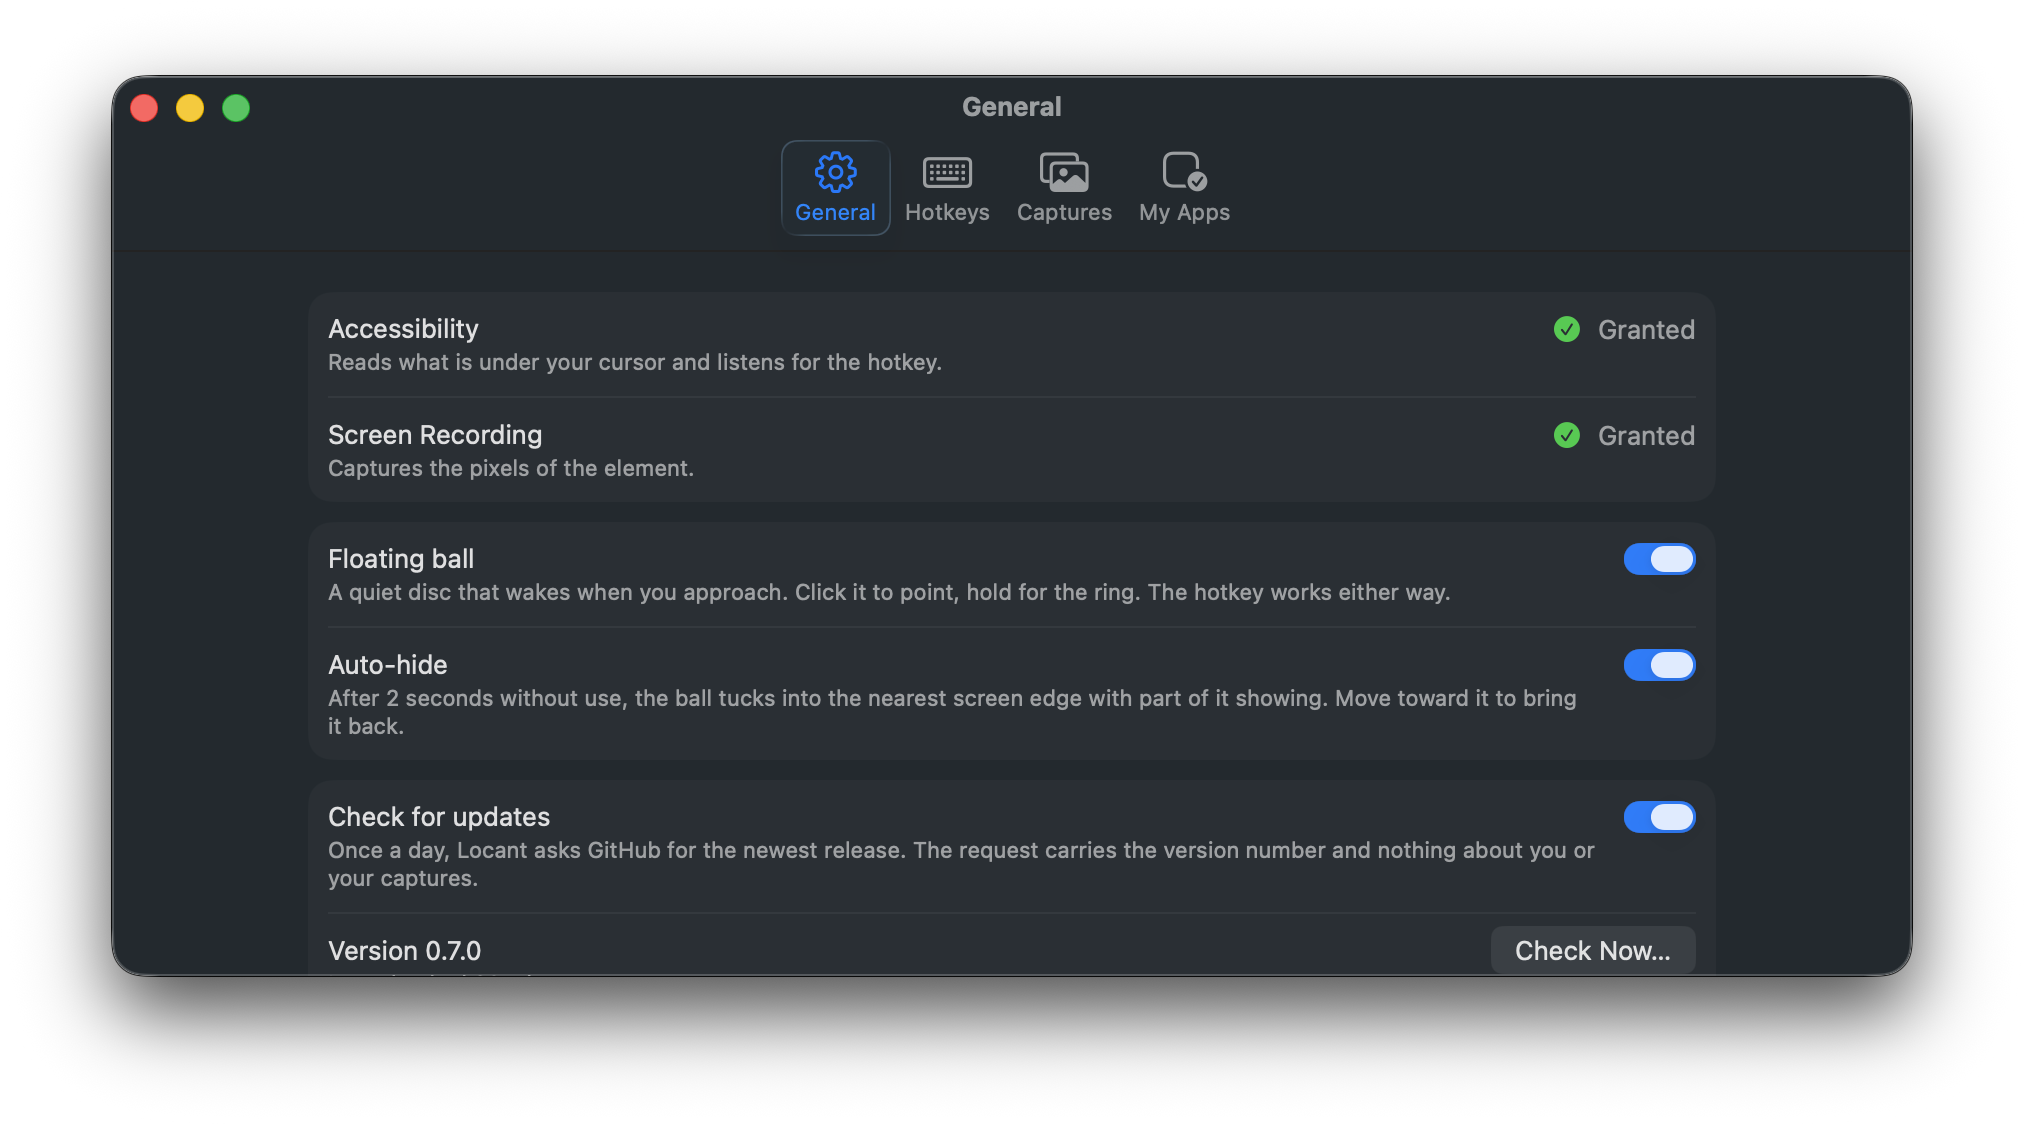
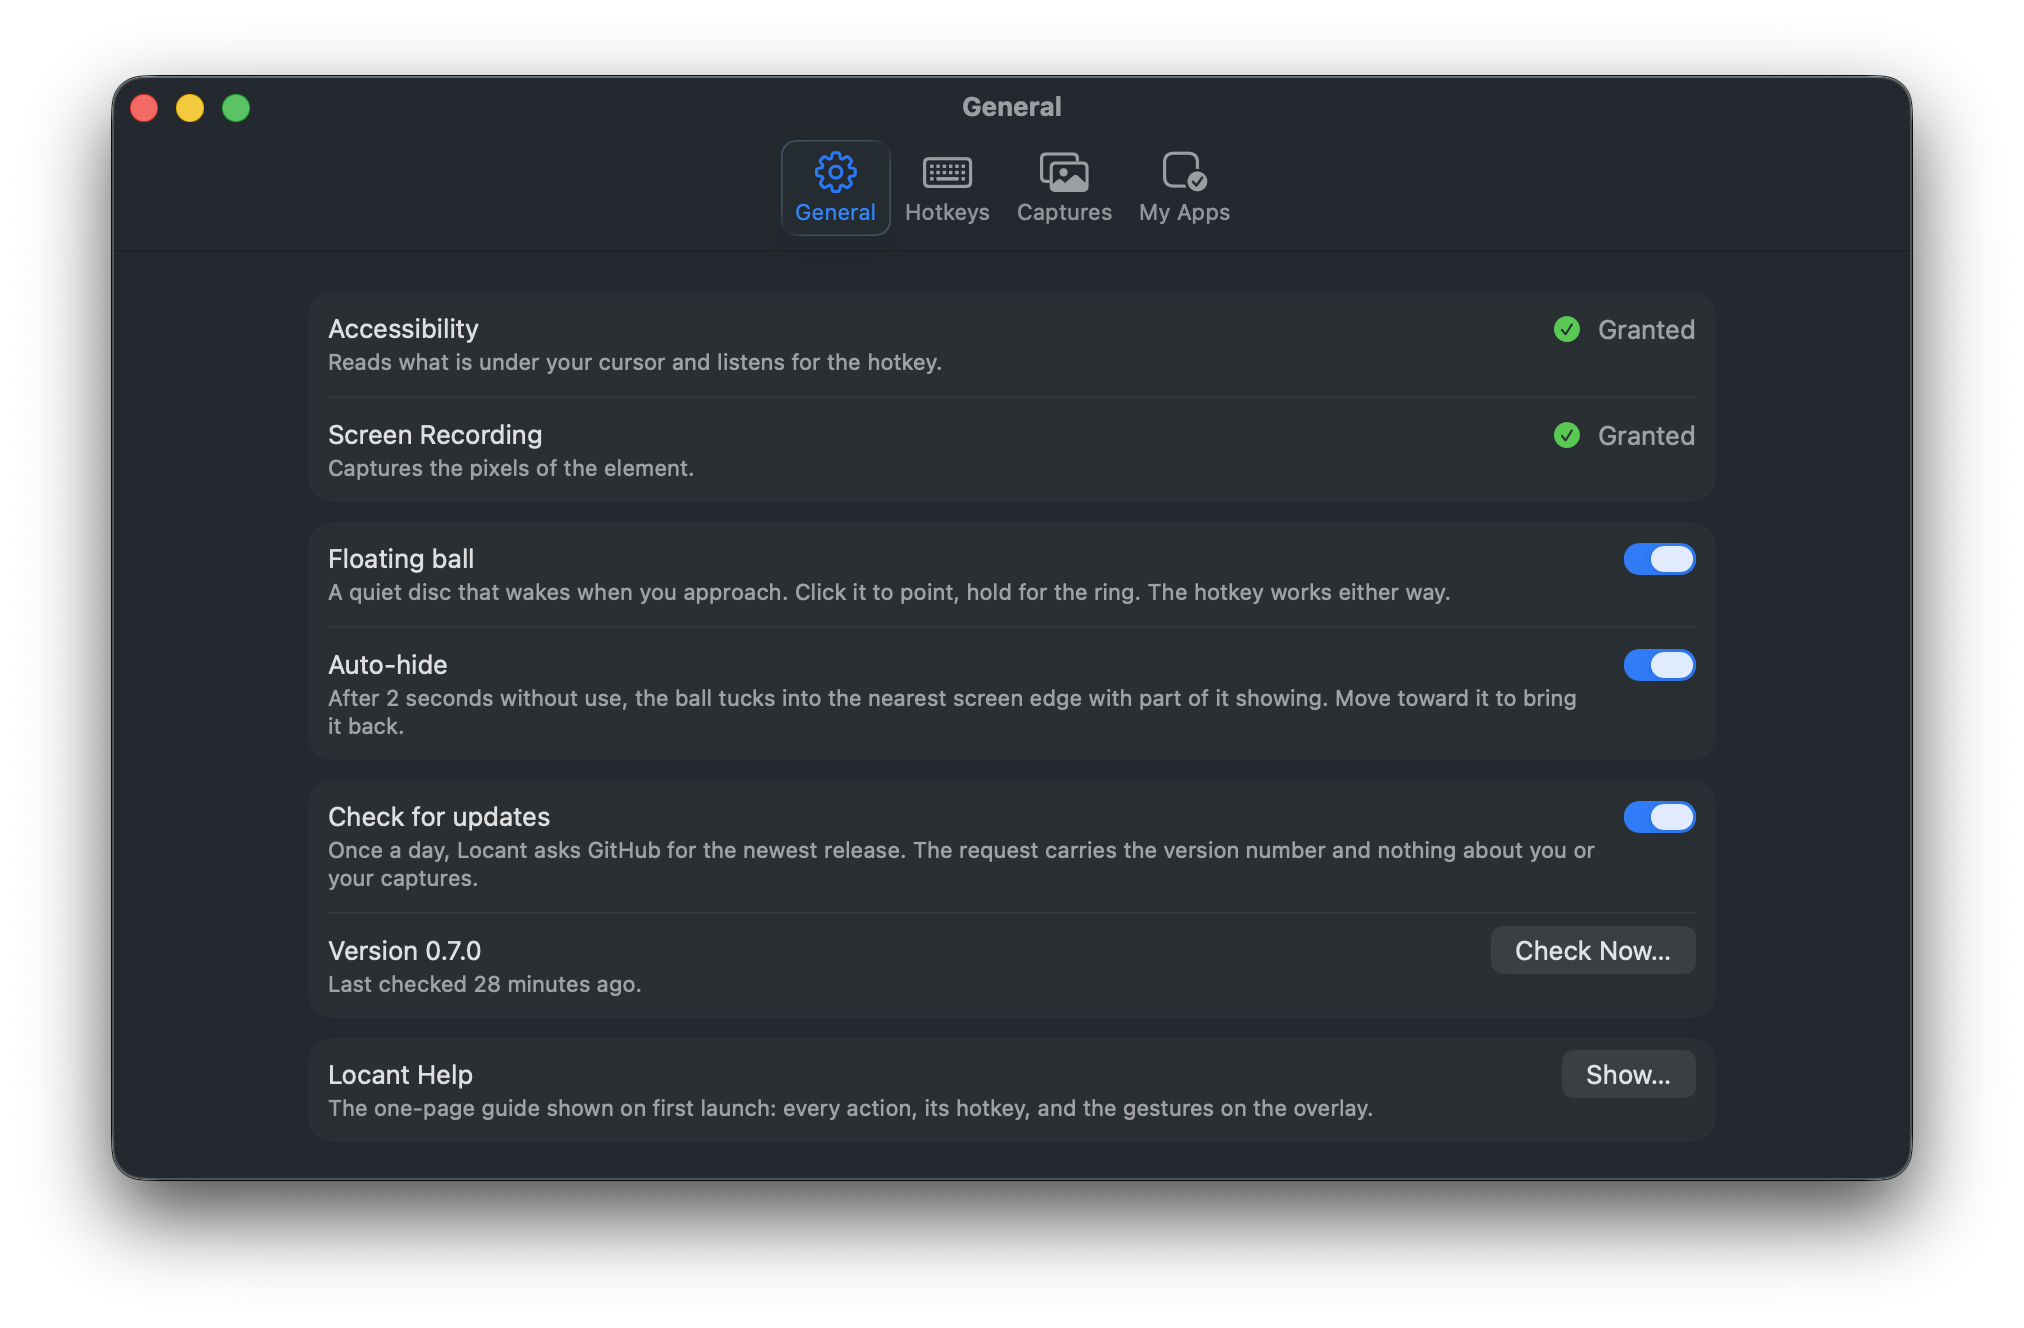
site: desktop Settings screenshots at 900x552 so every row shows

diff --git a/site/index.html b/site/index.html
@@ -668,7 +668,7 @@ make this rounded, match the other pills</pre>
       <p class="lede">The one place Locant is a window. Every default works on first launch.</p>
     </div>
     <figure class="shot" style="margin: 0;">
-      <picture class="light"><source media="(max-width: 720px)" srcset="assets/settings-light-phone.png" width="960" height="1160"><img src="assets/settings-light.png" width="2024" height="1124" alt="Locant Settings window, General tab: Accessibility and Screen Recording granted, the floating ball and auto-hide on, a daily update check, version 0.7.0"></picture><picture class="dark"><source media="(max-width: 720px)" srcset="assets/settings-dark-phone.png" width="960" height="1160"><img src="assets/settings-dark.png" width="2024" height="1124" alt="Locant Settings window, General tab: Accessibility and Screen Recording granted, the floating ball and auto-hide on, a daily update check, version 0.7.0"></picture>
+      <picture class="light"><source media="(max-width: 720px)" srcset="assets/settings-light-phone.png" width="960" height="1160"><img src="assets/settings-light.png" width="2024" height="1328" alt="Locant Settings window, General tab: Accessibility and Screen Recording granted, the floating ball and auto-hide on, a daily update check, version 0.7.0, and the Help row"></picture><picture class="dark"><source media="(max-width: 720px)" srcset="assets/settings-dark-phone.png" width="960" height="1160"><img src="assets/settings-dark.png" width="2024" height="1328" alt="Locant Settings window, General tab: Accessibility and Screen Recording granted, the floating ball and auto-hide on, a daily update check, version 0.7.0, and the Help row"></picture>
     </figure>
   </section>
 
